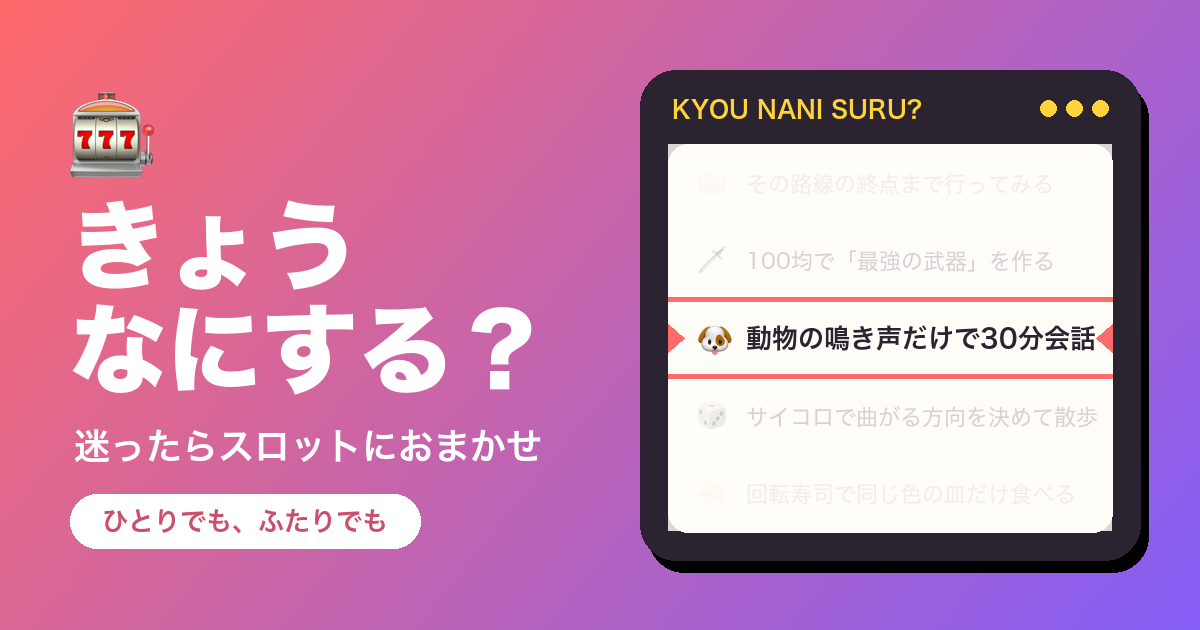
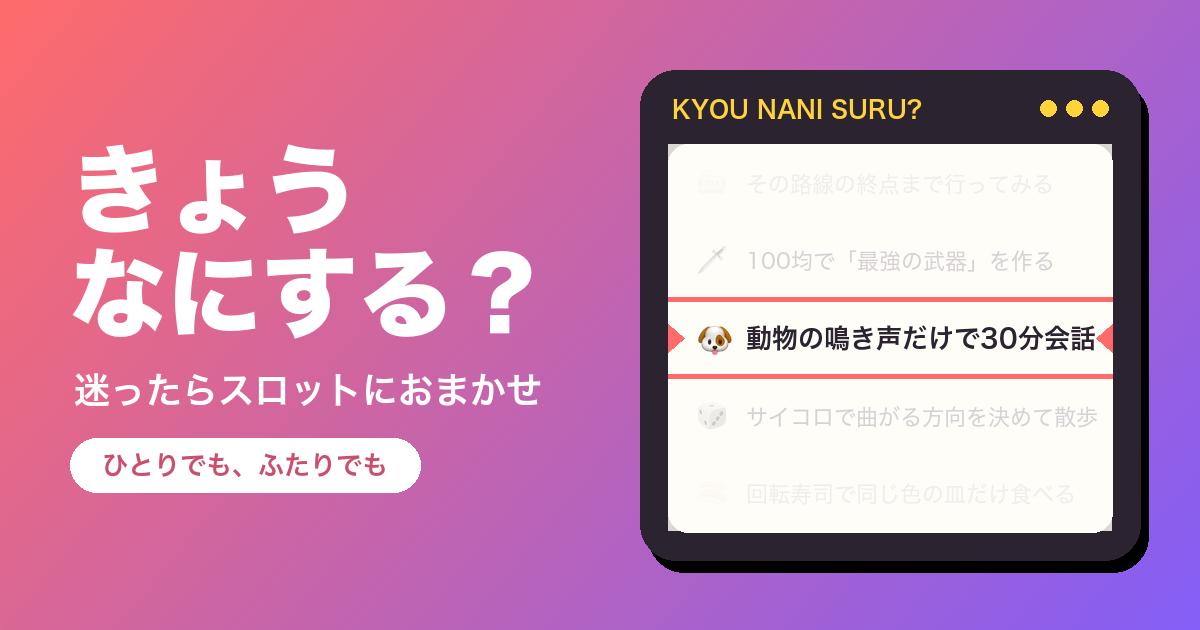
リンクカード画像からスロットの絵文字を削除

Changed region(s): [[0.0617, 0.1508, 0.4625, 0.8746]]

diff --git a/index.html b/index.html
@@ -14,14 +14,14 @@
 <meta property="og:url" content="https://bebebe113.github.io/kyou-nani-suru/">
 <meta property="og:title" content="きょうなにする？｜迷ったらスロットにおまかせ">
 <meta property="og:description" content="ちょっと笑えて、ギリギリ今日できること。スロットを回して今日の予定を決めよう。ひとりでも、ふたりでも。">
-<meta property="og:image" content="https://bebebe113.github.io/kyou-nani-suru/og.png">
+<meta property="og:image" content="https://bebebe113.github.io/kyou-nani-suru/og.png?v=2">
 <meta property="og:image:width" content="1200">
 <meta property="og:image:height" content="630">
 <meta property="og:image:alt" content="スロットマシンに「動物の鳴き声だけで30分会話」が当たっている画面">
 <meta name="twitter:card" content="summary_large_image">
 <meta name="twitter:title" content="きょうなにする？｜迷ったらスロットにおまかせ">
 <meta name="twitter:description" content="ちょっと笑えて、ギリギリ今日できること。スロットを回して今日の予定を決めよう。">
-<meta name="twitter:image" content="https://bebebe113.github.io/kyou-nani-suru/og.png">
+<meta name="twitter:image" content="https://bebebe113.github.io/kyou-nani-suru/og.png?v=2">
 <style>
   :root {
     --bg: #fff8f2; --card: #ffffff; --text: #2b2330; --muted: #7a6f80;
